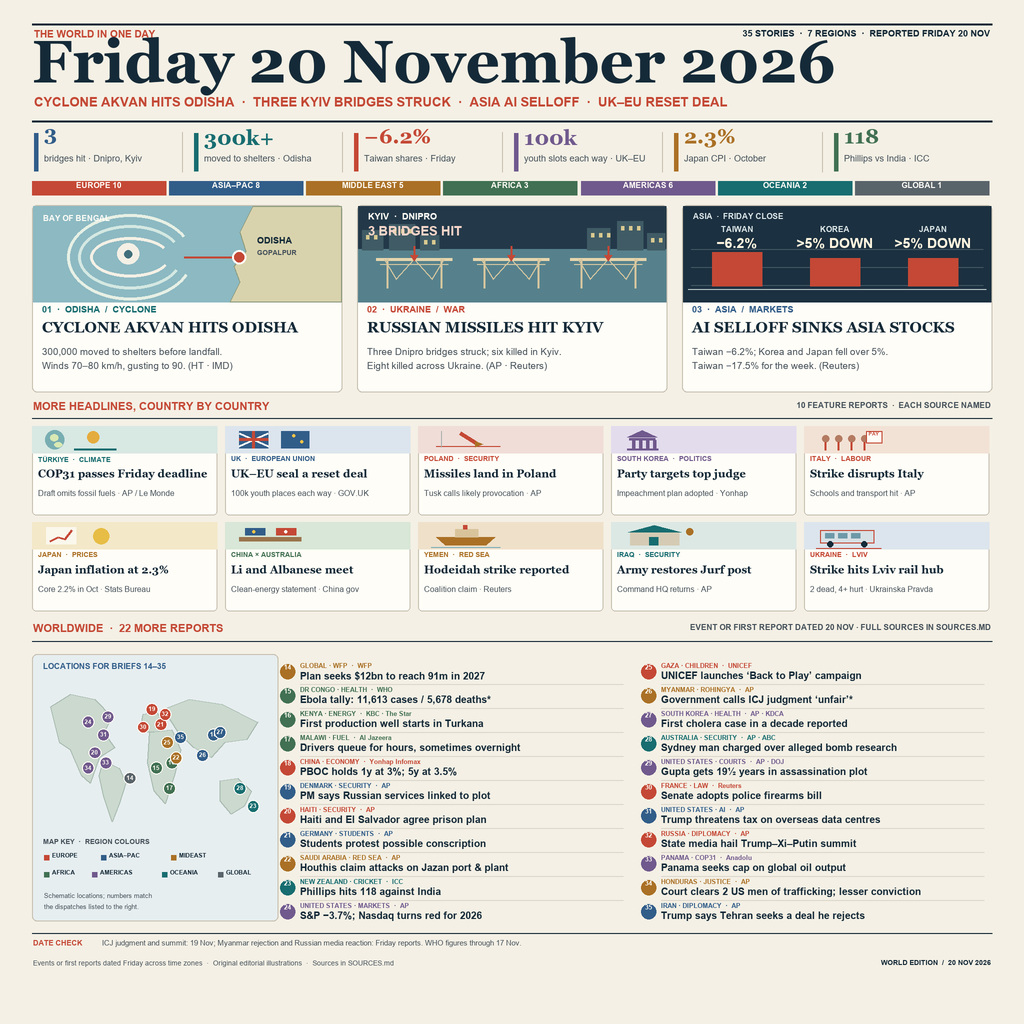
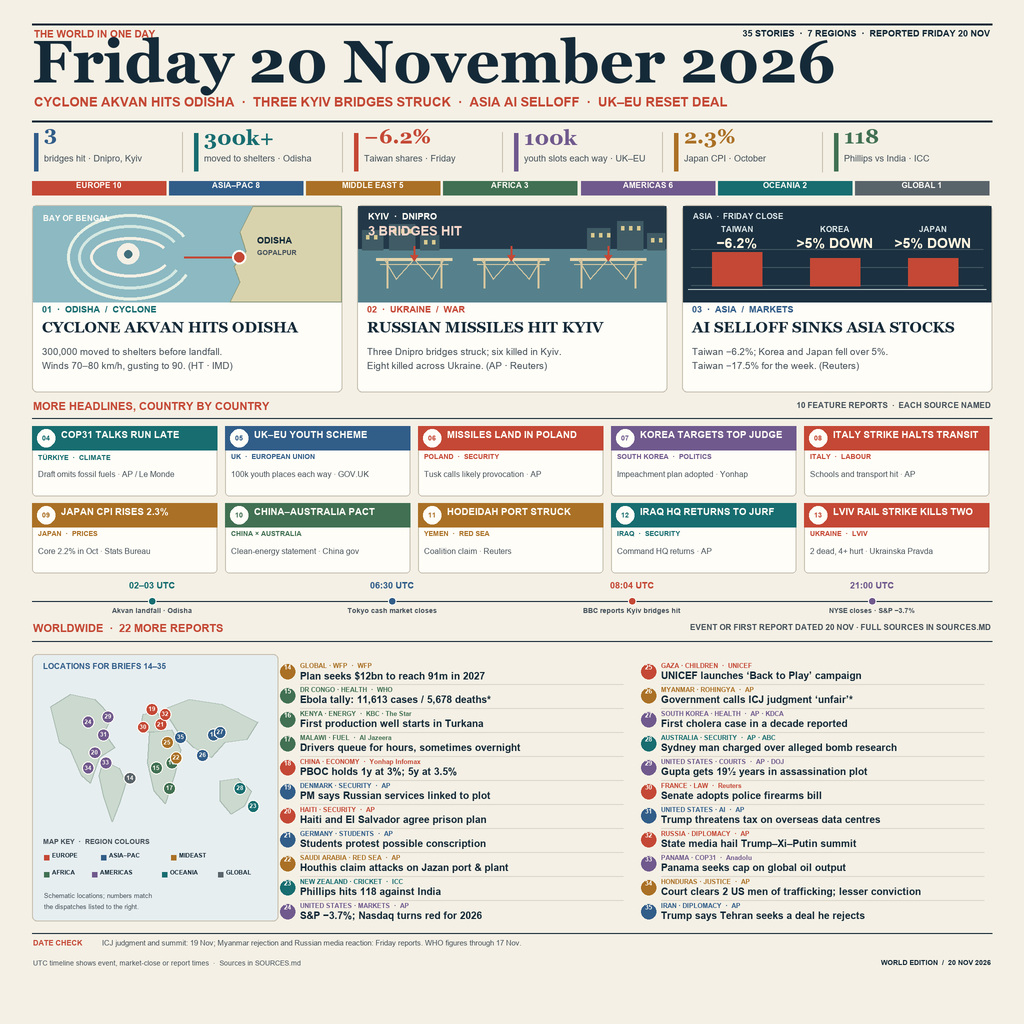
Improve world news image timeline and labels

diff --git a/SOURCES.md b/SOURCES.md
@@ -49,3 +49,10 @@ This edition covers events that happened or were first reported on Friday, 20 No
 ## Date check
 
 The ICJ judgment on Myanmar’s Rohingya genocide case and the Trump–Xi–Putin summit occurred on Thursday, 19 November; Friday’s Myanmar response and Russian media reaction are identified as Friday reports. WHO’s Ebola figures run through 17 November. Anthropic’s Nasdaq debut also took place on 19 November and is not presented as a Friday event.
+
+## UTC timeline
+
+- **02:00–03:00 UTC · Akvan landfall.** Hindustan Times reports the storm crossed near Gopalpur between 07:30 and 08:30 IST on 20 November. [Hindustan Times](https://www.hindustantimes.com/india-news/cyclone-akvan-completes-landfall-on-odisha-coast-lashes-state-with-heavy-rain-101795162109520.html)
+- **06:30 UTC · Tokyo cash-market close.** The Tokyo Stock Exchange’s cash-equity session closes at 15:30 JST. [Japan Exchange Group](https://www.jpx.co.jp/english/equities/trading/domestic/04.html)
+- **08:04 UTC · BBC report.** The BBC’s Kyiv-bridges report is timestamped 20 November 2026, 08:04 GMT. [BBC News](https://www.bbc.com/news/articles/c6x29gn4pdn9o)
+- **21:00 UTC · New York close.** NYSE’s core session closes at 16:00 ET; New York was on EST on 20 November. AP reports the S&P 500 fell 3.7% at Friday’s close. [NYSE trading information](https://www.nyse.com/trade/trading-information) · [Associated Press](https://apnews.com/article/c10b797a17c2acf37924d834efebe135)
